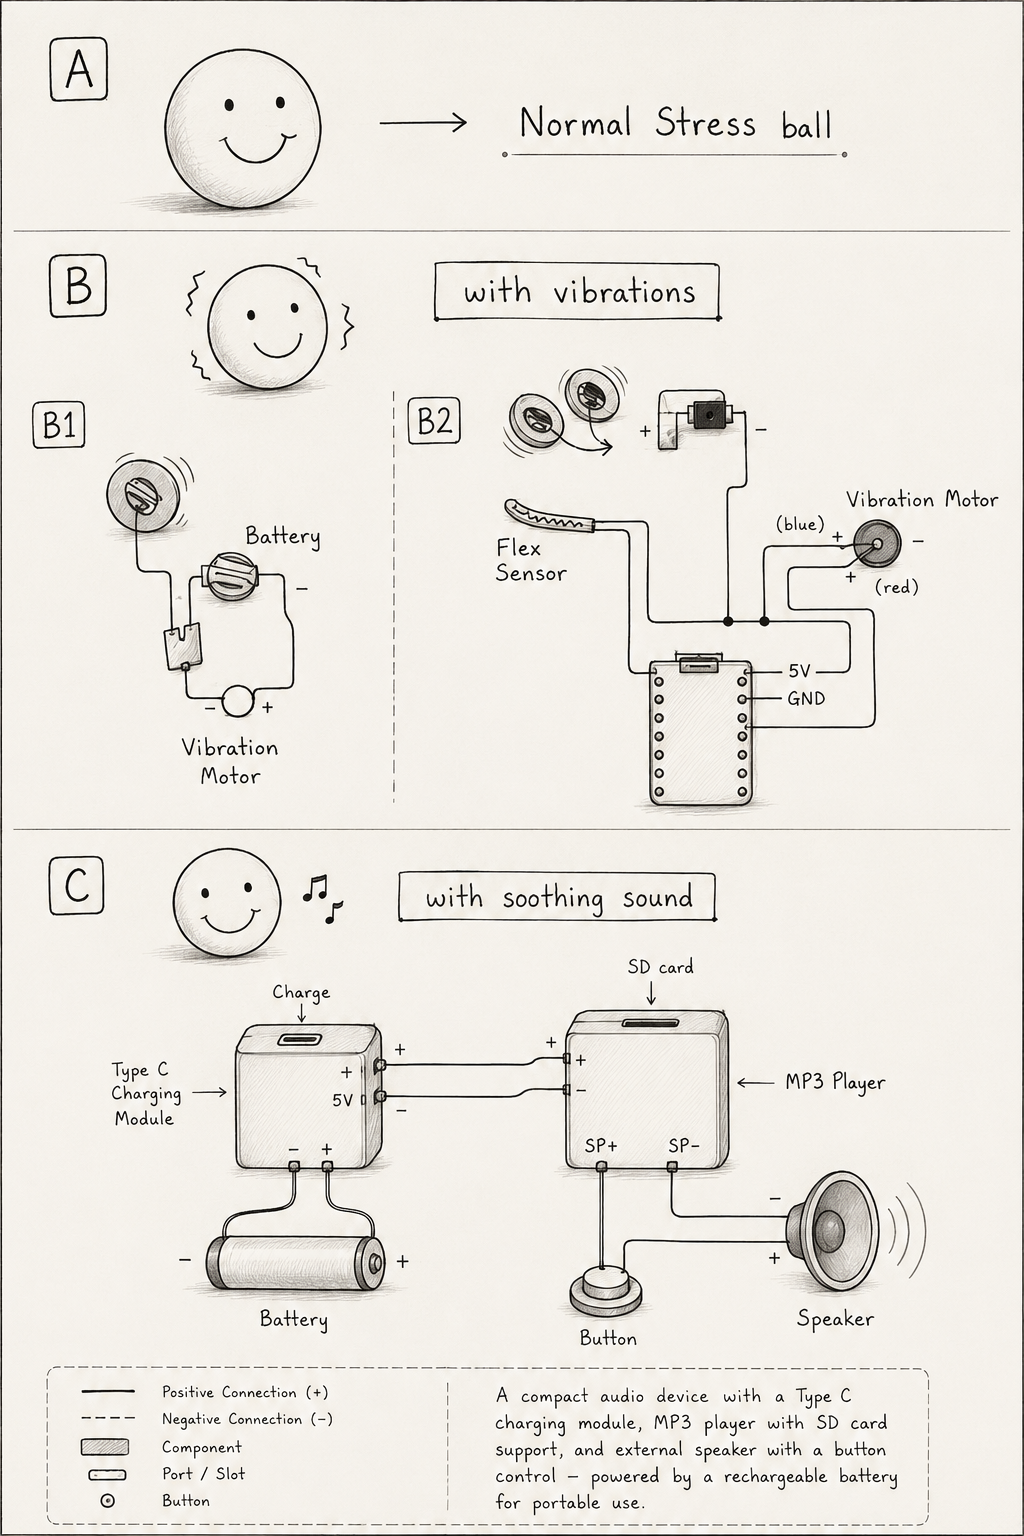
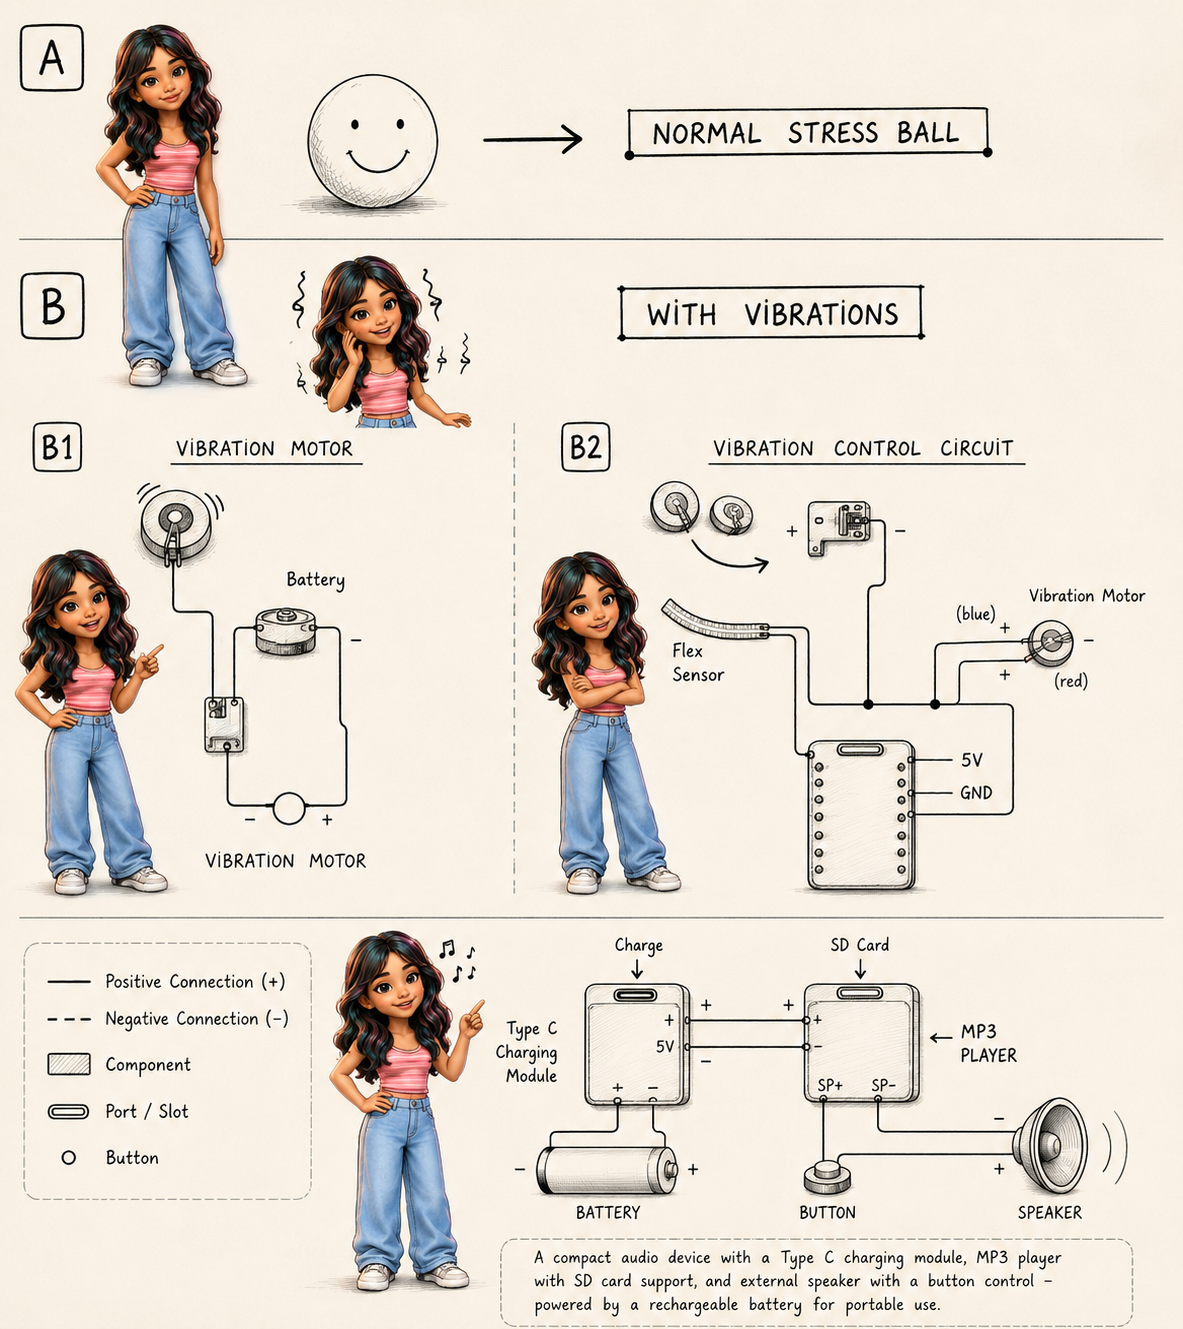
AI images: curved-table finals/process, foldable adds, stress-ball mascot
- curved-table: AI final-01/02/03 + process-03..08 (correct real extensions)
- foldable-study-table: fab-07, final-04, ideation-01, morph-01
- interactive-stress-ball: single combined mascot concept board -> slot 07;
  in AI mode the brainstorm row collapses to one full-width image
  (.pc--ai-solo hides the second image + single column). Human mode keeps
  the two real whiteboard photos side by side.

diff --git a/style.css b/style.css
@@ -2839,6 +2839,11 @@ body.cur-click .cursor-glow { opacity: 0.4; }
 /* Photos/blocks that should not appear in AI mode */
 :root[data-mode="ai"] .ai-hide { display: none !important; }
 
+/* Two-up image row that collapses to a single full-width image in AI mode
+   (e.g. the stress-ball brainstorm boards → one combined mascot board) */
+:root[data-mode="ai"] .pc--ai-solo { grid-template-columns: 1fr !important; }
+:root[data-mode="ai"] .pc--ai-solo img:nth-child(2) { display: none; }
+
 /* ── Glass skin ── */
 :root[data-mode="ai"] {
   --accent: #7d5a44;

diff --git a/script.js b/script.js
@@ -1794,7 +1794,7 @@ function buildStressballPresentation(p) {
       <p class="pcard-body">User interviews with teachers and design professionals showed that physical tactility alone wasn't enough &mdash; sensory feedback through sound and vibration mattered far more for genuine stress relief.</p>
       <p class="pcard-body" style="margin-top:1rem">That insight shaped three concept directions, mapped out on the board: <strong>A</strong> &mdash; a normal squeeze ball, <strong>B</strong> &mdash; one with vibration feedback driven by a flex sensor, and <strong>C</strong> &mdash; one that plays a soothing sound on press, built around an MP3 module, speaker, and rechargeable cell.</p>
     </div>
-    <div class="pc pc-2 pc--fill">${i(board2, 'Concept brainstorm board')}${i(board1, 'Soothing sound circuit sketch')}</div>
+    <div class="pc pc-2 pc--fill pc--ai-solo">${i(board2, 'Concept brainstorm board')}${i(board1, 'Soothing sound circuit sketch')}</div>
   </div>`;
 
   // 3. PROTOTYPING — foam ball builds